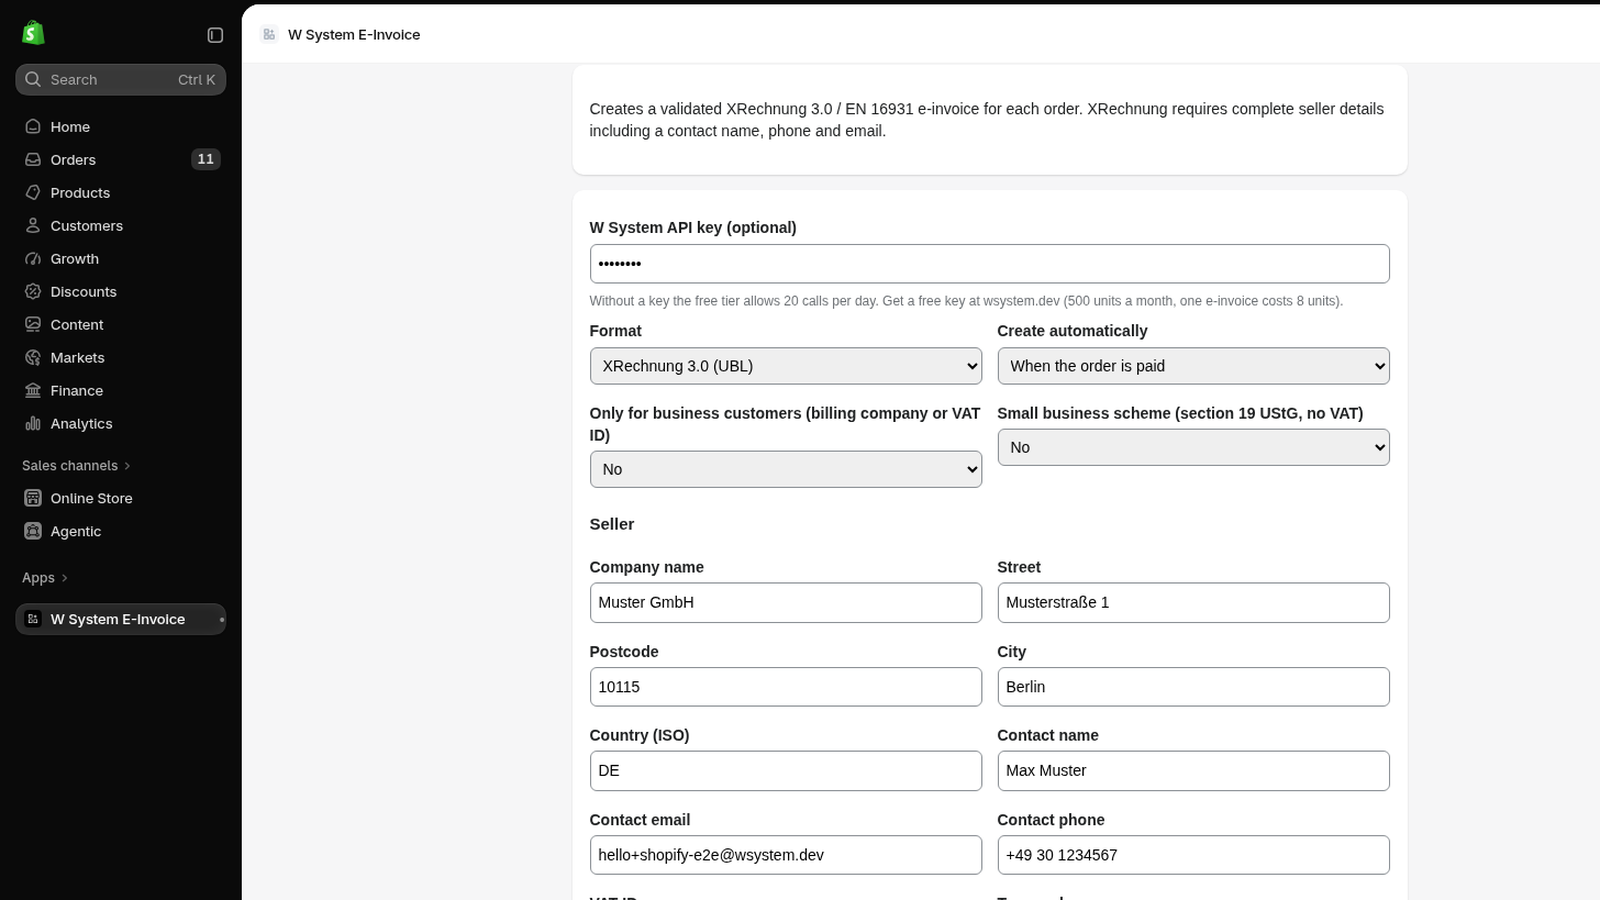
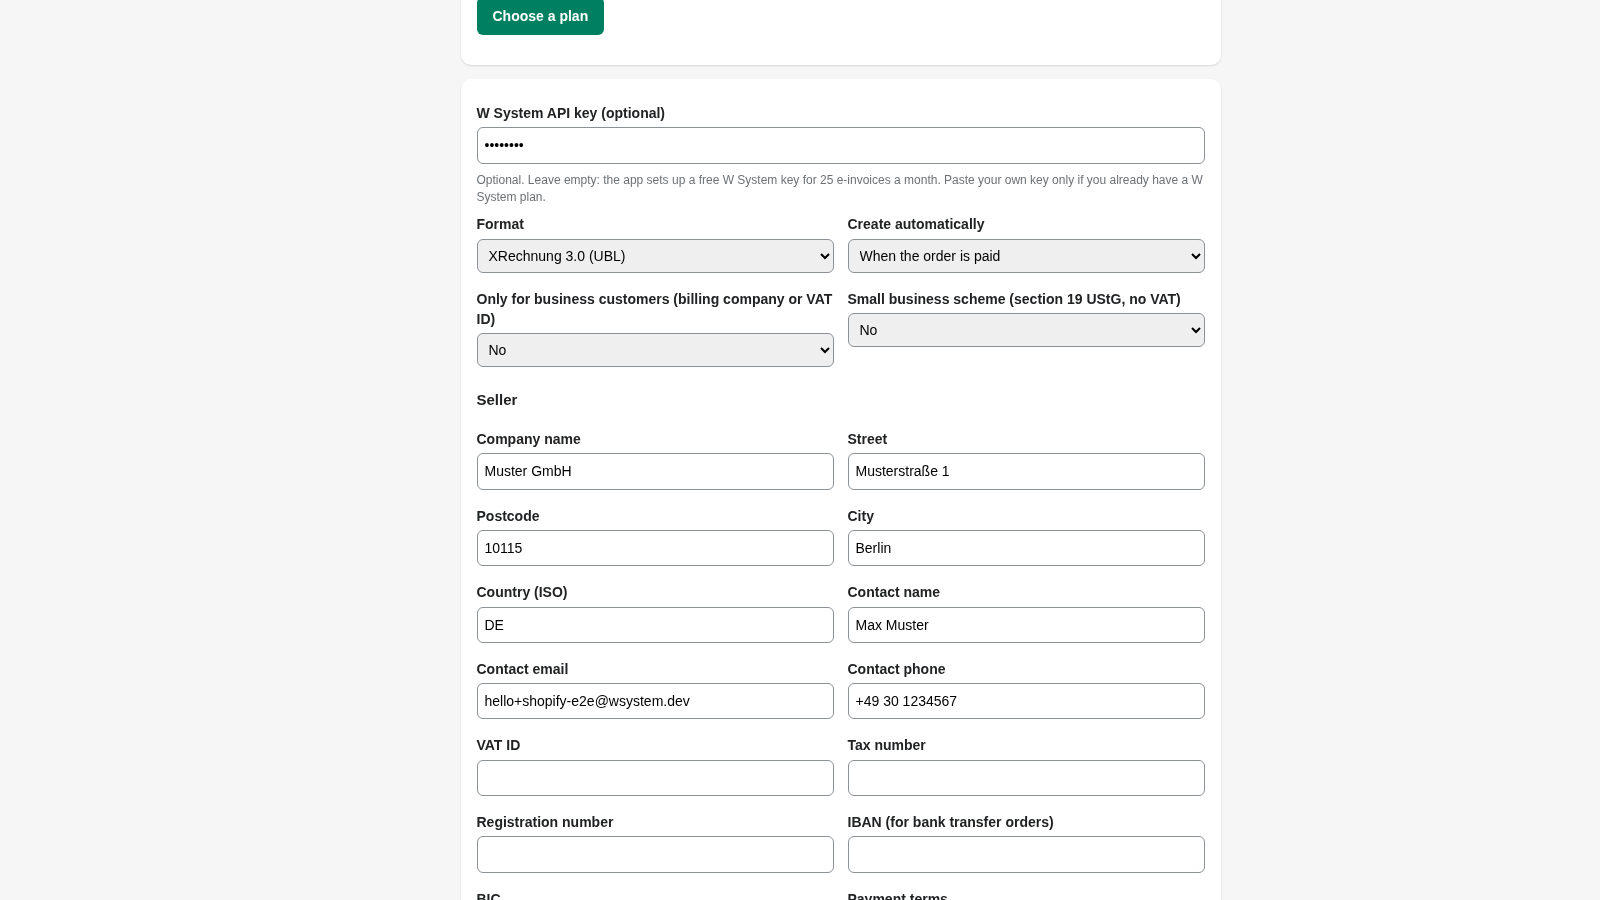
Shop free tier 25 -> 50 (board 2026-11-23): app text, plan table, listing source text; wrangler.toml synced with live Worker (BACKUP kv, APP_HANDLE, cron)

diff --git a/src/admin.js b/src/admin.js
@@ -1,21 +1,21 @@
 const T = {
   en: { title: "W System E-Invoice", intro: "Creates a validated XRechnung 3.0 / EN 16931 e-invoice for each order. XRechnung requires complete seller details including a contact name, phone and email.",
-    api: "W System API key (optional)", apih: "Optional. Leave empty: the app sets up a free W System key for 25 e-invoices a month. Paste your own key only if you already have a W System plan.",
+    api: "W System API key (optional)", apih: "Optional. Leave empty: the app sets up a free W System key for 50 e-invoices a month. Paste your own key only if you already have a W System plan.",
     format: "Format", trigger: "Create automatically", t_paid: "When the order is paid", t_created: "When the order is created", t_off: "Never (manual only)",
     only_b2b: "Only for business customers (billing company or VAT ID)", small: "Small business scheme (section 19 UStG, no VAT)", seller: "Seller", name: "Company name", street: "Street", postcode: "Postcode", city: "City", country: "Country (ISO)",
     email: "Contact email", phone: "Contact phone", contact: "Contact name", vat: "VAT ID", taxno: "Tax number", reg: "Registration number", iban: "IBAN (for bank transfer orders)", bic: "BIC",
     terms: "Payment terms", ref: "Default buyer reference (Leitweg-ID)", refh: "Used when an order has no buyer reference. Per order, add an order attribute named Leitweg-ID.", vatattr: "Order attribute names holding the customer VAT ID",
     prefix: "Invoice number prefix", emailcopy: "Email a copy of each valid XML to the seller email", zug: "Create ZUGFeRD / Factur-X PDF instead of XML only (beta)", save: "Save settings", saved: "Saved.", err: "Could not save", orders: "Recent e-invoices", create: "Create", order: "Order", status: "Status", number: "Number", dl: "Download XML",
-    plan: "Your plan", planfree: "Free: 25 e-invoices a month. Your W System key is set up automatically.", planmore: "Need more? Plans are billed by Shopify:", curlabel: "Current plan", manage: "Billed by Shopify. To change or cancel, choose another plan below or open Settings > Billing in your Shopify admin. Cancelling returns you to the free plan.", monthly: "a month", yearly: "a year (pay 10 months, get 12)", inv: "e-invoices a month", sub: "Choose a plan", subbusy: "Opening Shopify...",
+    plan: "Your plan", planfree: "Free: 50 e-invoices a month. Your W System key is set up automatically.", planmore: "Need more? Plans are billed by Shopify:", curlabel: "Current plan", manage: "Billed by Shopify. To change or cancel, choose another plan below or open Settings > Billing in your Shopify admin. Cancelling returns you to the free plan.", monthly: "a month", yearly: "a year (pay 10 months, get 12)", inv: "e-invoices a month", sub: "Choose a plan", subbusy: "Opening Shopify...",
     ok: "Valid", bad: "Failed validation", kept: "Latest attempt failed, your earlier valid e-invoice is kept",  none: "No e-invoices yet.", orderid: "Order number to create an e-invoice for", go: "Create e-invoice" },
   de: { title: "W System E-Rechnung", intro: "Erstellt für jede Bestellung eine geprüfte XRechnung 3.0 / EN 16931. Die XRechnung verlangt vollständige Verkäuferdaten inklusive Ansprechpartner, Telefon und E-Mail.",
-    api: "W System API-Schlüssel (optional)", apih: "Optional. Leer lassen: Die App richtet einen kostenlosen W System Schlüssel für 25 E-Rechnungen im Monat ein. Eigenen Schlüssel nur eintragen, wenn Sie bereits einen W System Tarif haben.",
+    api: "W System API-Schlüssel (optional)", apih: "Optional. Leer lassen: Die App richtet einen kostenlosen W System Schlüssel für 50 E-Rechnungen im Monat ein. Eigenen Schlüssel nur eintragen, wenn Sie bereits einen W System Tarif haben.",
     format: "Format", trigger: "Automatisch erstellen", t_paid: "Wenn die Bestellung bezahlt ist", t_created: "Wenn die Bestellung angelegt wird", t_off: "Nie (nur manuell)",
     only_b2b: "Nur für Geschäftskunden (Rechnungsfirma oder USt-IdNr.)", small: "Kleinunternehmerregelung (§ 19 UStG, keine USt)", seller: "Verkäufer", name: "Firmenname", street: "Straße", postcode: "PLZ", city: "Ort", country: "Land (ISO)",
     email: "Kontakt-E-Mail", phone: "Kontakt-Telefon", contact: "Ansprechpartner", vat: "USt-IdNr.", taxno: "Steuernummer", reg: "Handelsregisternummer", iban: "IBAN (für Überweisungen)", bic: "BIC",
     terms: "Zahlungsbedingungen", ref: "Standard-Käuferreferenz (Leitweg-ID)", refh: "Wird genutzt, wenn eine Bestellung keine Käuferreferenz hat. Pro Bestellung ein Bestellattribut namens Leitweg-ID anlegen.", vatattr: "Namen der Bestellattribute mit der USt-IdNr. des Kunden",
     prefix: "Präfix der Rechnungsnummer", emailcopy: "Kopie jeder gültigen XML an die Verkäufer-E-Mail senden", zug: "ZUGFeRD / Factur-X PDF statt nur XML erstellen (Beta)", save: "Einstellungen speichern", saved: "Gespeichert.", err: "Speichern fehlgeschlagen", orders: "Letzte E-Rechnungen", create: "Erstellen", order: "Bestellung", status: "Status", number: "Nummer", dl: "XML herunterladen",
-    plan: "Ihr Tarif", planfree: "Kostenlos: 25 E-Rechnungen im Monat. Ihr W System Schlüssel wird automatisch eingerichtet.", planmore: "Mehr nötig? Die Tarife werden über Shopify abgerechnet:", curlabel: "Aktueller Tarif", manage: "Abrechnung über Shopify. Zum Ändern oder Kündigen wählen Sie unten einen anderen Tarif oder öffnen Einstellungen > Abrechnung im Shopify-Admin. Nach der Kündigung gilt wieder der kostenlose Tarif.", monthly: "im Monat", yearly: "im Jahr (10 Monate zahlen, 12 erhalten)", inv: "E-Rechnungen im Monat", sub: "Tarif wählen", subbusy: "Shopify wird geöffnet...",
+    plan: "Ihr Tarif", planfree: "Kostenlos: 50 E-Rechnungen im Monat. Ihr W System Schlüssel wird automatisch eingerichtet.", planmore: "Mehr nötig? Die Tarife werden über Shopify abgerechnet:", curlabel: "Aktueller Tarif", manage: "Abrechnung über Shopify. Zum Ändern oder Kündigen wählen Sie unten einen anderen Tarif oder öffnen Einstellungen > Abrechnung im Shopify-Admin. Nach der Kündigung gilt wieder der kostenlose Tarif.", monthly: "im Monat", yearly: "im Jahr (10 Monate zahlen, 12 erhalten)", inv: "E-Rechnungen im Monat", sub: "Tarif wählen", subbusy: "Shopify wird geöffnet...",
     ok: "Gültig", bad: "Prüfung fehlgeschlagen", kept: "Letzter Versuch fehlgeschlagen, Ihre frühere gültige E-Rechnung bleibt erhalten",  none: "Noch keine E-Rechnungen.", orderid: "Bestellnummer, für die eine E-Rechnung erstellt wird", go: "E-Rechnung erstellen" },
 };
 const esc = (s) => String(s ?? "").replace(/[&<>"']/g, (c) => ({ "&": "&amp;", "<": "&lt;", ">": "&gt;", '"': "&quot;", "'": "&#39;" }[c]));

diff --git a/src/index.js b/src/index.js
@@ -10,7 +10,7 @@ const json = (o, status = 200) => new Response(JSON.stringify(o), { status, head
 // plan id (quota in units on the shop's own key). Hosted plan page: https://admin.shopify.com/store/<shop handle>/charges/<APP_HANDLE>/pricing_plans.
 // BILLING_PLANS (JSON array) overrides this list; "[]" hides the plan table.
 export const DEFAULT_PLANS = [
-  { id: "free", handle: "free", ws: "shop_free", name: "Free", invoices: 25, price: "0.00", yearly: "0.00", currency: "USD" },
+  { id: "free", handle: "free", ws: "shop_free", name: "Free", invoices: 50, price: "0.00", yearly: "0.00", currency: "USD" },
   { id: "shop", handle: "shop", ws: "shop", name: "Shop", invoices: 150, price: "13.00", yearly: "130.00", currency: "USD" },
   { id: "shop_plus", handle: "shop-plus", ws: "shop_plus", name: "Shop Plus", invoices: 750, price: "32.00", yearly: "320.00", currency: "USD" },
   { id: "shop_pro", handle: "shop-pro", ws: "shop_pro", name: "Shop Pro", invoices: 2000, price: "65.00", yearly: "650.00", currency: "USD" },

diff --git a/listing/SUBMIT_PACKET.md b/listing/SUBMIT_PACKET.md
@@ -61,9 +61,9 @@ W System E-Invoice creates a structured e-invoice for each order and checks it b
 - Download link on the order (tag and metafield) and a list of recent invoices in the app
 - Several VAT rates, discounts, shipping, bank transfer with IBAN, intra-EU reverse charge, exports, small business scheme (section 19 UStG)
 - Leitweg-ID per order for public-sector buyers
-- Free for 25 invoices a month, then from $13 a month (billed through Shopify). Your W System key is set up automatically
+- Free for 50 invoices a month, then from $13 a month (billed through Shopify). Your W System key is set up automatically
 - English and German
-**Pricing:** Free: 25 e-invoices a month. Shop: $13 a month for 150. Shop Plus: $32 a month for 750. Shop Pro: $65 a month for 2,000. Annual billing: pay 10 months, get 12 ($130, $320, $650 a year). Same price in every store. Billed through Shopify in USD.
+**Pricing:** Free: 50 e-invoices a month. Shop: $13 a month for 150. Shop Plus: $32 a month for 750. Shop Pro: $65 a month for 2,000. Annual billing: pay 10 months, get 12 ($130, $320, $650 a year). Same price in every store. Billed through Shopify in USD.
 **Search terms:** xrechnung, e-rechnung, e-invoice, en 16931, peppol
 **Support:** hello@wsystem.dev, https://wsystem.dev/support
 **Privacy policy:** https://wsystem.dev/privacy   **Terms:** https://wsystem.dev/terms
@@ -87,7 +87,7 @@ W System E-Rechnung erstellt zu jeder Bestellung eine strukturierte E-Rechnung u
 - Leitweg-ID je Bestellung für öffentliche Auftraggeber
 - Ohne Konto nutzbar (20 Rechnungen pro Tag); kostenloser API-Schlüssel mit 500 Einheiten im Monat
 - Deutsch und Englisch
-**Preis:** Kostenlos: 25 E-Rechnungen im Monat. Shop: 13 $ im Monat für 150. Shop Plus: 32 $ im Monat für 750. Shop Pro: 65 $ im Monat für 2.000. Jahreszahlung: 10 Monate zahlen, 12 erhalten (130 $, 320 $, 650 $ pro Jahr). Gleicher Preis in jedem Shop. Abrechnung über Shopify in USD.
+**Preis:** Kostenlos: 50 E-Rechnungen im Monat. Shop: 13 $ im Monat für 150. Shop Plus: 32 $ im Monat für 750. Shop Pro: 65 $ im Monat für 2.000. Jahreszahlung: 10 Monate zahlen, 12 erhalten (130 $, 320 $, 650 $ pro Jahr). Gleicher Preis in jedem Shop. Abrechnung über Shopify in USD.
 **Grenzen:** keine ZUGFeRD-PDFs, noch keine Gutschriften für Erstattungen, keine Trinkgelder oder Geschenkgutscheine; keine Steuer- oder Rechtsberatung.
 
 
@@ -103,7 +103,7 @@ Alt texts: 1 "App settings with seller data and format", 2 "Recent e-invoices wi
 ## 4. Pricing (same price in every store; Shopify bills in USD: $13/$32/$65 monthly, $130/$320/$650 yearly; set in the listing's Pricing section, using Shopify managed App Pricing: create the 4 plans in the Partner Dashboard pricing page, each monthly + yearly on one plan; handles free, shop, shop-plus, shop-pro; redirect URL /)
 | Plan | Monthly (USD) | Annual (USD, 10 months for 12) | Included invoices per month |
 |---|---|---|---|
-| Free | 0 | n/a | 25 |
+| Free | 0 | n/a | 50 |
 | Shop | 13.00 | 130.00 | 150 |
 | Shop Plus | 32.00 | 320.00 | 750 |
 | Shop Pro | 65.00 | 650.00 | 2,000 |

diff --git a/listing/LISTING.md b/listing/LISTING.md
@@ -17,9 +17,9 @@ W System E-Invoice creates a structured e-invoice for each order and checks it b
 - Download link on the order (tag and metafield) and a list of recent invoices in the app
 - Several VAT rates, discounts, shipping, bank transfer with IBAN, intra-EU reverse charge, exports, small business scheme (section 19 UStG)
 - Leitweg-ID per order for public-sector buyers
-- Free for 25 invoices a month, then from $13 a month (billed through Shopify). Your W System key is set up automatically
+- Free for 50 invoices a month, then from $13 a month (billed through Shopify). Your W System key is set up automatically
 - English and German
-**Pricing:** Free: 25 e-invoices a month. Shop: $13 a month for 150. Shop Plus: $32 a month for 750. Shop Pro: $65 a month for 2,000. Annual billing: pay 10 months, get 12 ($130, $320, $650 a year). Same price in every store. Billed through Shopify in USD.
+**Pricing:** Free: 50 e-invoices a month. Shop: $13 a month for 150. Shop Plus: $32 a month for 750. Shop Pro: $65 a month for 2,000. Annual billing: pay 10 months, get 12 ($130, $320, $650 a year). Same price in every store. Billed through Shopify in USD.
 **Search terms:** xrechnung, e-rechnung, e-invoice, en 16931, peppol
 **Support:** hello@wsystem.dev, https://wsystem.dev/support
 **Privacy policy:** https://wsystem.dev/privacy   **Terms:** https://wsystem.dev/terms
@@ -42,7 +42,7 @@ W System E-Rechnung erstellt zu jeder Bestellung eine strukturierte E-Rechnung u
 - Leitweg-ID je Bestellung für öffentliche Auftraggeber
 - Ohne Konto nutzbar (20 Rechnungen pro Tag); kostenloser API-Schlüssel mit 500 Einheiten im Monat
 - Deutsch und Englisch
-**Preis:** Kostenlos: 25 E-Rechnungen im Monat. Shop: 13 $ im Monat für 150. Shop Plus: 32 $ im Monat für 750. Shop Pro: 65 $ im Monat für 2.000. Jahreszahlung: 10 Monate zahlen, 12 erhalten (130 $, 320 $, 650 $ pro Jahr). Gleicher Preis in jedem Shop. Abrechnung über Shopify in USD.
+**Preis:** Kostenlos: 50 E-Rechnungen im Monat. Shop: 13 $ im Monat für 150. Shop Plus: 32 $ im Monat für 750. Shop Pro: 65 $ im Monat für 2.000. Jahreszahlung: 10 Monate zahlen, 12 erhalten (130 $, 320 $, 650 $ pro Jahr). Gleicher Preis in jedem Shop. Abrechnung über Shopify in USD.
 **Grenzen:** keine ZUGFeRD-PDFs, noch keine Gutschriften für Erstattungen, keine Trinkgelder oder Geschenkgutscheine; keine Steuer- oder Rechtsberatung.
 
 ## Fees, contracts and review requirements (for Zifeng; fees checked on shopify.dev 21 Nov 2026)

diff --git a/store/BILLING_AND_PRICING.md b/store/BILLING_AND_PRICING.md
@@ -3,7 +3,7 @@
 ## Plans (Shopify managed App Pricing, created in the Partner Dashboard pricing page; one plan carries monthly and yearly prices)
 | Plan name | Handle | Monthly (USD) | Yearly (pay 10, get 12) | Invoices/month | W System plan (units/month) |
 |---|---|---|---|---|---|
-| Free | `free` | $0 | none | 25 | shop_free (300) |
+| Free | `free` | $0 | none | 50 | shop_free (600) |
 | Shop | `shop` | $13 | $130 | 150 | shop (1,800) |
 | Shop Plus | `shop-plus` | $32 | $320 | 750 | shop_plus (9,000) |
 | Shop Pro | `shop-pro` | $65 | $650 | 2,000 | shop_pro (24,000) |
